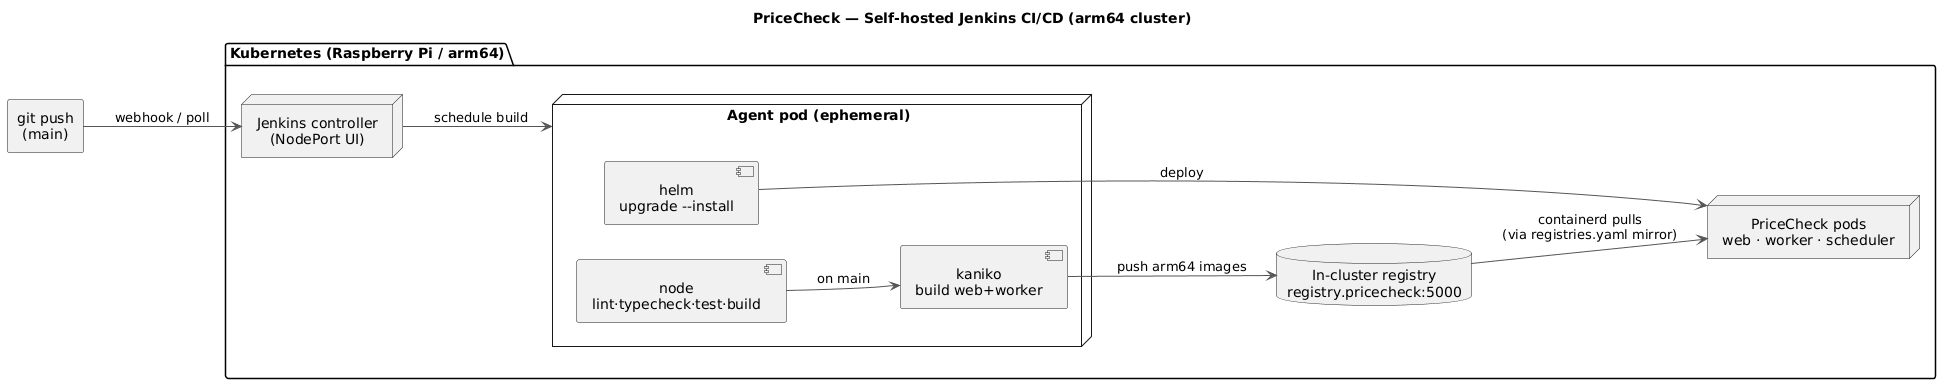
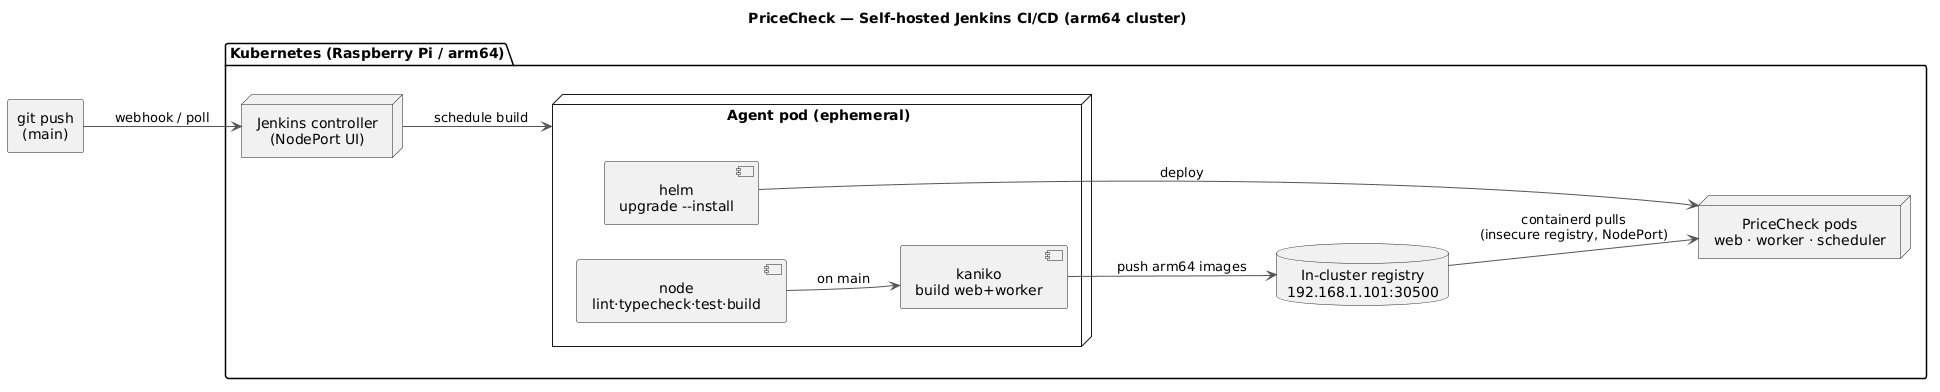
PriceCheck: in-cluster registry via node IP, worker pnpm fix, docs
- Address the in-cluster registry by 192.168.1.101:30500 (node IP + NodePort) so the
  same ref works for Kaniko and the kubelet; generic, project-agnostic node config.
- worker.Dockerfile: install pnpm via npm -g (corepack left no runtime pnpm shim).

diff --git a/specs/jenkins-setup.md b/specs/jenkins-setup.md
@@ -40,25 +40,28 @@ images are built on arm64 nodes and run on arm64 nodes. `next build` heap is cap
 kubectl apply -f deploy/jenkins/registry.yaml
 ```
 
-Then tell **containerd** on every node to treat `registry.pricecheck:5000` as an insecure
-mirror reachable on the registry's NodePort. On **k3s**, create `/etc/rancher/k3s/registries.yaml`
-on each node:
+Images are addressed by the **cluster IP + NodePort** (`192.168.1.101:30500`) — a single
+address that both the in-cluster builder (Kaniko) and the host-level kubelet can reach.
+Because the registry serves plain HTTP, each node needs a one-time entry telling containerd
+it's insecure. On **k3s**, create `/etc/rancher/k3s/registries.yaml` on each node:
 
 ```yaml
 mirrors:
-  "registry.pricecheck:5000":
+  "192.168.1.101:30500":
     endpoint:
-      - "http://127.0.0.1:30500"
+      - "http://192.168.1.101:30500"
 configs:
-  "registry.pricecheck:5000":
+  "192.168.1.101:30500":
     tls:
       insecure_skip_verify: true
 ```
 
-Restart k3s on each node (`sudo systemctl restart k3s` / `k3s-agent`). This is the key
-trick: Kaniko **pushes** to `registry.pricecheck:5000` via cluster DNS, and containerd
-**pulls** the same name through the mirror endpoint — so the image ref resolves on both
-sides without public DNS.
+Restart k3s on each node (`sudo systemctl restart k3s` on the control-plane node,
+`sudo systemctl restart k3s-agent` on workers). Note this entry is keyed on the **registry
+address, not the project** — you set it once and every project that pushes to this registry
+reuses it; nothing here is PriceCheck-specific. (`192.168.1.101` is this cluster's API/VIP
+address, so it's node-independent — change it to your registry's address.) In production
+you'd give the registry TLS + a resolvable name to drop the insecure entry entirely.
 
 ## 2. Deployer RBAC
 
@@ -123,10 +126,11 @@ kubectl -n pricecheck port-forward svc/pricecheck-web 3000:80   # open http://lo
 
 ## Troubleshooting
 
-- **Kaniko can't reach the registry** — confirm `kubectl -n pricecheck get svc registry`
-  and that the agent pod resolves `registry.pricecheck:5000` (cross-namespace DNS).
-- **ImagePullBackOff** — the node's `registries.yaml` mirror is missing/incorrect, or k3s
-  wasn't restarted after editing it.
+- **Kaniko can't reach the registry** — confirm the registry NodePort is up
+  (`curl http://192.168.1.101:30500/v2/_catalog`) and matches `REGISTRY` in the Jenkinsfile.
+- **ImagePullBackOff** with `dial tcp: lookup … no such host` or `http: server gave HTTP
+  response to HTTPS client`** — the node's `registries.yaml` entry is missing/incorrect, or
+  k3s wasn't restarted after editing it. It must exist on **every** node that runs the pods.
 - **`next build` OOM on a node** — lower `NODE_OPTIONS` / raise kaniko memory limits, or
   pin builds to a beefier node with a `nodeSelector` in the Jenkinsfile pod template.
 - **Kaniko arm64 issues** — swap the `kaniko` container for `quay.io/buildah/stable`